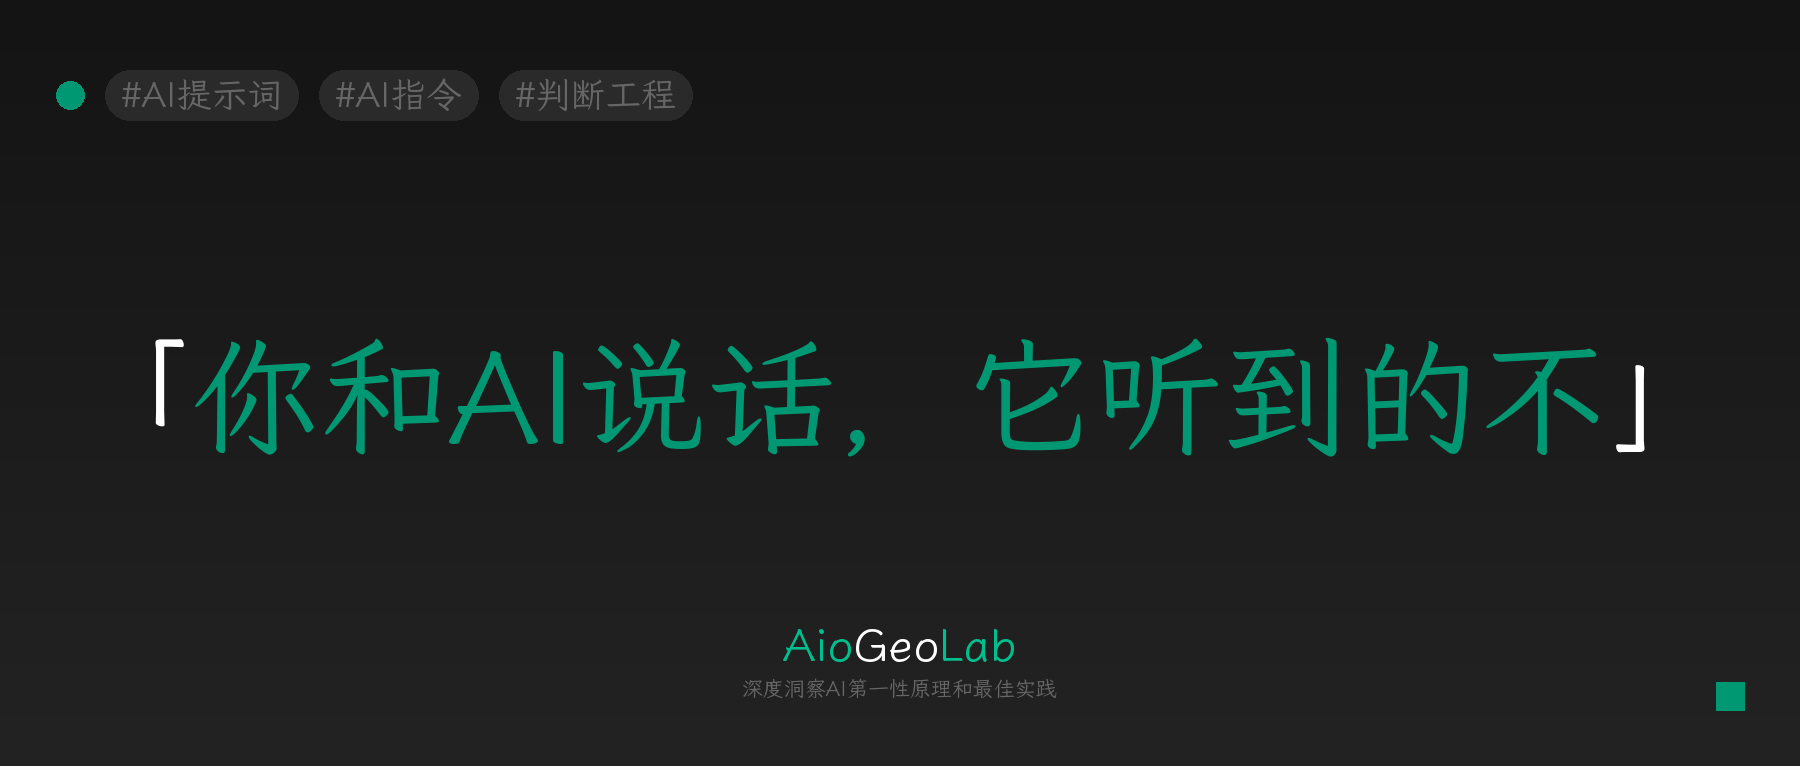
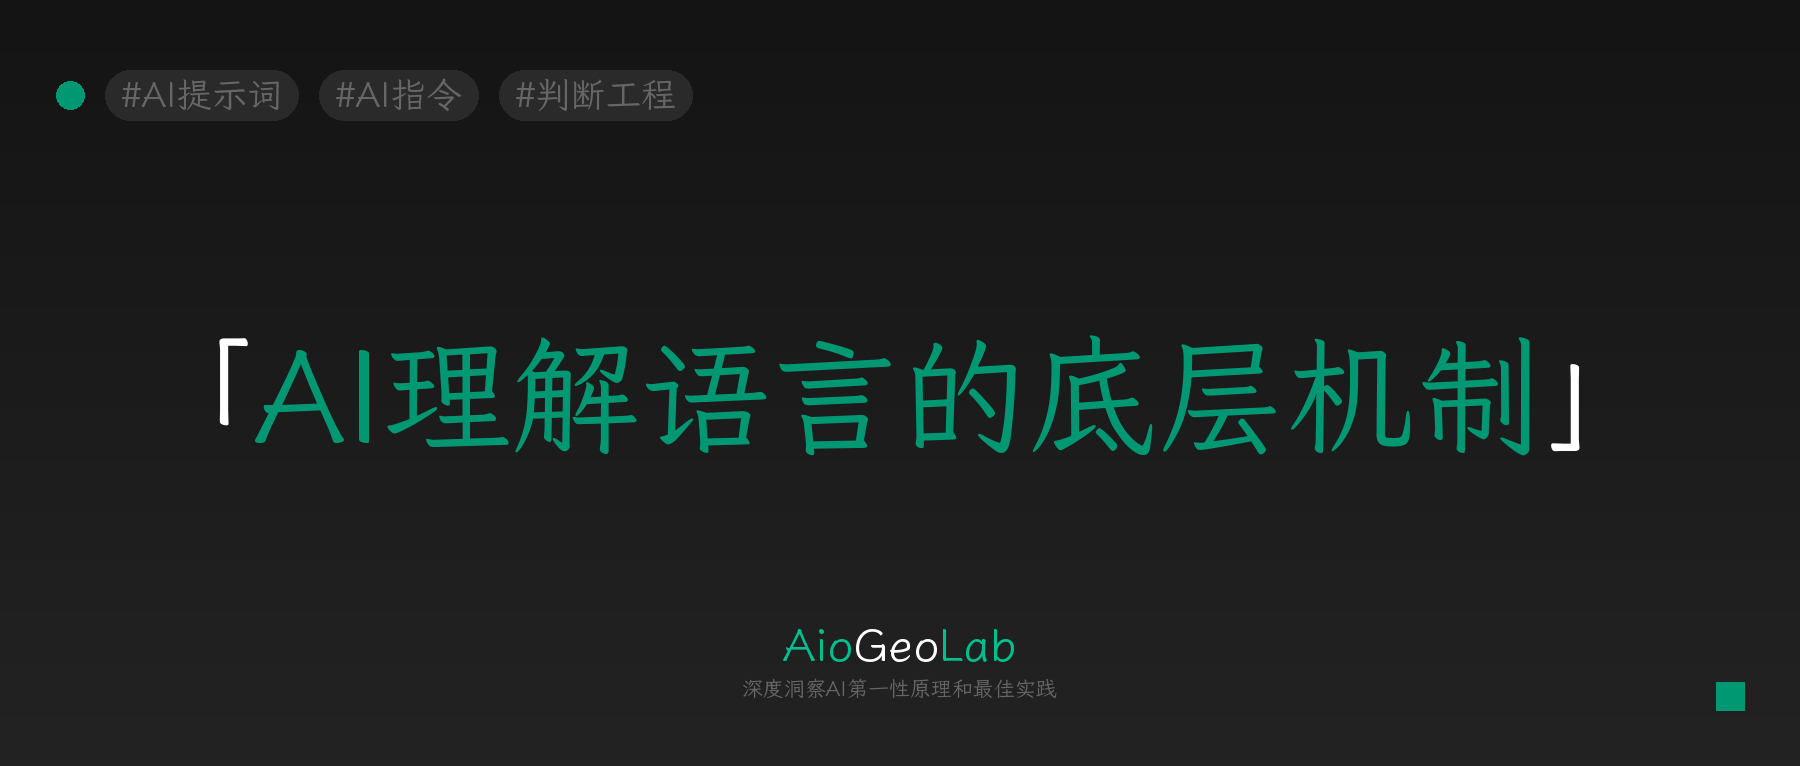
article publish

Changed region(s): [[0.0622, 0.4204, 0.9333, 0.6005]]

diff --git a/content/posts/tgje-121-reflection-loop-how-agents-check-their-own-work.md b/content/posts/tgje-121-reflection-loop-how-agents-check-their-own-work.md
@@ -1,0 +1,193 @@
+---
+title: Agent做完了，但它不知道自己做对了没有丨反馈环：执行链里那个被默认跳过的环节
+date: 2026-05-17
+draft: true
+coverKeyword: Agent"回头看"机制
+description: Agent执行完任务，不代表任务做对了——它没有内置的"回头看"机制，不会自己发现错误。本文拆解反馈环（Reflection）的底层逻辑，呈现从自检型、双Agent型到迭代循环型的三种设计形态，并以OpenClaw与Hermes的真实实现为例，说明反馈环不是固定的解，而是需要根据目标做出的设计选择。
+tldr: |-
+  Agent执行完任务就停下来，不会自己检查结果对不对——它没有预期，没有校对本能，只有线性向前的执行逻辑。"做完"和"做对"之间的那段距离，默认由人在下游承担。
+
+  反馈环（Reflection）就是在执行结构里显式设计一个"回头看"的节点。三种形态从轻到重：自检型（同一个Agent自审）、双Agent型（专门的评估Agent独立审核）、迭代循环型（不通过就修正，直到达标或触发终止条件）。
+
+  OpenClaw和Hermes给出了两种不同的答案：OpenClaw的反思是任务结束后把经验沉淀为Skill，Hermes的nudge机制在会话中实时触发自检，GEPA引擎跨任务分析失败原因并进化。一个重经验积累，一个重持续验证。
+
+  反馈环不是越复杂越好，是风险越高代价越大的任务越值得设计。把它建进执行结构，错误就在内部消化；跳过它，错误就在下游爆发。
+tags:
+  - Re
+  - 判断工程
+  - Agent
+  - 智能体
+  - 生成式引擎
+  - AI
+  - GEO
+  - AEO
+  - SEO
+  - AIO
+  - AIAgent
+  - LLM
+  - 大语言模型
+  - 优化
+  - OpenClaw
+categories: AIAgent
+author: 塔迪Tardi
+cover:
+  image: /images/cover/AioGeoLab-cover-tgje-121-reflection-loop-how-agents-check-their-own-work.png
+  alt: tgje-121-reflection-loop-how-agents-check-their-own-work
+  caption:
+schema:
+  type: BlogPosting
+  wordCount: auto
+  dateModified: auto
+ShowToc: true
+TocOpen: true
+image:
+commands: /Users/wyh/baidusync/OneAILtd/VibCX/tarditools/apublish/pub.sh tgje-121-reflection-loop-how-agents-check-their-own-work c i w b
+publish:
+  slug: tgje-121-reflection-loop-how-agents-check-their-own-work
+  status: wx_draft_created
+  paths:
+    cover_img: null
+    video: null
+    infographic: null
+  cdn:
+    infographic_url: https://p.vibcx.com/x/2026/05/1778894832-infographic-tgje-121-reflection-loop-how-agents-check-their-own-work_1280_714.jpg
+    infographic_1280: /Users/wyh/baidusync/OneAILtd/aiogeolab.com/myfiles/infographic/infographic-tgje-121-reflection-loop-how-agents-check-their-own-work_1280_714.jpg
+  wechat:
+    cover_media_id: lEmH66TSP501Rw-1R2Ao3yqaDA27mx94dkHpHM9XL2-2wgke2C7p5sDHEqV-ojTr
+    video_vid: wxv_4518145225021980687
+    video_cover_url: http://mmbiz.qpic.cn/mmbiz_jpg/nzSUaViczUNXLJZLWmdGDQ0O8lrf0RIp61er6PKkym4RBEjASvW1gmYbSARYFVTPvgDMX1H46kkTPnKokyiahInrH0ZcZAIKEicfPtgCxiaiaKic4/0?wx_fmt=jpeg
+    infographic_wx_url: http://mmbiz.qpic.cn/mmbiz_jpg/nzSUaViczUNWBuDJic6V0bMbyecYGkKhxJSF9LhLdEoMUZXMtQGHZgicKY8CVeUMd9zJ7e0ia2icktjbygYy8edLFASNoVjvTnicxtjmDwAiaQawoA/0?from=appmsg
+    draft_media_id: lEmH66TSP501Rw-1R2Ao30sCzQbXRSxvs-Ylp7xMhtmp6Oa2hKAvp5Uir9JlVMq9
+    draft_created_at: 2026-05-16 09:27
+    video_media_id: lEmH66TSP501Rw-1R2Ao3ztzvvGK_Ei1aC3L4p6KQ-5lcrEeATHsrT027jLnHHVY
+  wx_article:
+    digest: null
+    original: false
+    comment: true
+---
+# Agent做完了，但它不知道自己做对了没有丨反馈环：执行链里那个被默认跳过的环节
+<!-- infographic-start -->
+![信息图](https://p.vibcx.com/x/2026/05/1778894832-infographic-tgje-121-reflection-loop-how-agents-check-their-own-work_1280_714.jpg)
+<!-- infographic-end -->
+
+你做完一件事，会不会回头看一眼？
+
+大多数人会。不是因为有人要求，是因为人有一种内置的校对本能——结果和预期对不上，会有一种微微不对劲的感觉，驱动你再看一遍。这个机制太自然了，自然到你甚至不会注意到它的存在。
+
+Agent没有这个感觉。
+
+它做完了就做完了。执行链跑到终点，输出交付，任务关闭。没有"不对劲"，没有回头看，没有"等一下，这里好像有点问题"。除非你在结构里显式设计一个检查节点，否则这一步永远不会发生。
+
+**这不是Agent不够聪明，是执行结构里默认缺少一个环节：反馈环。**
+
+---
+<!-- audiovideo-start -->  
+> <small>NotebookLM的音视频概览，解读的比较通俗易懂，对于时间比较紧张的读者朋友，可以听听，会有启发。
+</small>
+<iframe title="AioGeoLab" src="https://open.firstory.me/embed/story/cmp7nyw2n02z001uec3yoeyv7" height="180" width="500" frameborder="0" scrolling="no"></iframe>
+<!-- audiovideo-end -->
+* * *
+
+## 为什么Agent默认不会"回头看"
+
+人的校对本能，背后是一套复杂的机制：你有对目标的记忆，有对"这件事做成什么样算对"的预期，有当结果和预期不符时产生的认知张力。这种张力驱动你停下来检查。
+
+Agent没有这套机制的任何一层。
+
+它没有独立于任务之外的"预期"，只有指令。它没有完成之后仍然运作的目标感，只有下一个Token。它的执行逻辑是前向推进的：当前步骤产出，传入下一步骤，直到链条跑完。跑完就停，不回头。
+
+这和前面讲的"沉默失败"直接相关。**沉默失败之所以沉默，正是因为Agent没有内置机制去发现自己失败了。** 它做完了，它"成功"了，然后结果是错的，没有任何报警。
+
+要改变这件事，不能靠换一个更聪明的模型。要靠在执行结构里主动设计一个"回头看"的节点——这就是反馈环（Reflection）。
+
+* * *
+
+## 反馈环是什么：给执行链装一面镜子
+
+Reflection，直译是"反思"，在Agent执行结构里的含义更具体：在执行流程中插入一个自检节点，让Agent评估自己的输出是否符合要求，发现问题则修正，然后再交付。
+
+它改变的不是Agent的能力，是执行的结构。
+
+没有反馈环的执行链是一条单向的流水线：输入→执行→输出，结束。有了反馈环，流水线多了一个弯：输入→执行→自检→（发现问题则）修正→输出。
+
+这个弯不是装饰。它的价值在于：**让错误在执行链内部被捕获，而不是流出去由人在下游发现。** 发现得越早，修正的代价越低。
+
+* * *
+
+## 三种形态：从简单到复杂
+
+反馈环没有唯一的实现方式。根据任务复杂度和成本预算，有三种主要形态。
+
+**形态一：自检型**
+
+最简单的做法：Agent完成输出之后，用一个独立的prompt让它回头评估自己的结果。"你刚才的输出有没有遗漏？有没有不符合要求的地方？如果有，修正后重新输出。"
+
+同一个Agent，做完之后换一个角色审查自己。成本最低，上手门槛最低，适合中等复杂度的任务。
+
+局限是真实的：用同一个Agent自检，容易受执行过程中形成的思路影响。它按某个逻辑做完了一件事，再用同样的思路去检查，可能仍然觉得没问题——因为它的"问题标准"已经被执行过程塑造过一遍了。
+
+**形态二：双Agent型**
+
+执行Agent负责做，评估Agent负责审。两者独立，评估Agent没有参与执行过程，视角更干净，更容易发现执行Agent的盲点。
+
+这是目前主流Agent框架处理高质量输出任务的常见做法。代价是双倍的模型调用成本，但换来的是更可靠的错误捕获。适合质量要求高、错误代价大的任务——文件的修改、外部系统的写操作、需要对外交付的内容。
+
+**形态三：迭代循环型**
+
+执行→评估→不通过则修正→再评估→再修正→直到通过或达到重试上限。
+
+这是三种形态里最强的，也是最贵的。Token消耗随迭代次数倍增。**而且必须设终止条件。** 没有终止条件的迭代循环，就是前面（执行链上的五种断裂模式）讲的失控循环——Agent卡在里面，不停重试，时间和Token持续消耗，直到超时。最大迭代次数是硬性要求，不是可选项。
+
+* * *
+
+## 两个产品，两种不同的答案
+
+OpenClaw和Hermes都把Reflection设计进了执行结构，但两者的理解完全不同。放在一起看，能清楚地说明反馈环不是一个固定的解，而是一个需要根据目标做出选择的设计决策。
+
+**OpenClaw：反思是为了下一次**
+
+OpenClaw的执行哲学是"do, learn, improve"——做、学、改进。任务完成之后，Agent进入一个反思阶段，分析这次任务的执行过程，把值得记录的经验自主生成为可复用的Skill文件，供以后的任务调取。
+
+它的反思不是为了验证当次结果的正确性，而是**为了把这次的经验沉淀成下次的能力**。重点在学习和积累，不在当次纠错。
+
+**Hermes：反思是一个持续运行的机制**
+
+Hermes的Reflection更主动，有两个层次同时运作。
+
+第一层是**会话内的定期自检**。Hermes内置一个"nudge"机制（微推机制）——在会话进行过程中，系统在设定的时间间隔主动向Agent发出一个内部提示，要求它回顾最近发生的事情，判断有没有值得写入记忆的内容，以及当前任务是否已经真正完成。这个触发不需要用户发起，Agent自己在做。触发条件具体：五次以上工具调用、从错误中恢复、用户做了纠正、走通了一个非常规流程——任意一条满足，就值得记录。
+
+第二层是**跨任务的系统级进化**。GEPA引擎（Genetic-Pareto Prompt Evolution，来自ICLR 2026 Oral论文）每15次工具调用评估一次近期表现，读取执行轨迹，分析的不只是"失败了"，而是"为什么失败"，然后提出针对性的Skills和Prompt改进方案。这是超出单次任务反思的、系统级的自我进化。
+
+两者的差异用一句话概括：**OpenClaw的反思是任务结束后的经验提炼，Hermes的反思是贯穿执行过程的实时机制。** 前者更轻，后者更持续。选哪种，取决于你更在意当次任务的验证，还是跨任务的长期积累。
+
+* * *
+
+## 什么时候值得设计反馈环
+
+反馈环不是越复杂越好。每一层自检都是真实的Token消耗，迭代循环更是成本倍增。该不该设计，设计多重，取决于任务本身的风险。
+
+**结果难以在外部即时验证**——值得设。如果输出对不对，没有明确的外部信号来告诉你，内部自检是唯一的防线。等到下游出问题再发现，成本已经不同了。
+
+**错误代价高、操作不可逆**——值得设。可逆的操作出错还能改，不可逆的操作出错就是结果。对外部系统的写操作、涉及真实资源的调用，Reflection应该是标配而不是选配。
+
+**任务步骤多、链条长**——值得设，而且要设在中间，不只在结尾。链越长，误差积累的空间越大。等到链条跑完再检查，前面十步的错误已经被后面的步骤继承和放大了。在关键节点设检查点，比在终点设一个大检查更有效。
+
+**Token和时间预算充裕**——可以设更重的形态。反馈环是用资源换可靠性，预算紧张时做好取舍，优先把资源给最高风险的节点。
+
+* * *
+
+## 写在最后
+
+Agent执行链的设计，通常花了很多力气在"怎么让它跑起来"，但"跑完之后怎么知道跑对了"这个问题，经常被默认跳过。
+
+反馈环填的就是这个空缺。它不是让Agent变聪明，是给执行链装一面镜子——让Agent在交付结果之前，有机会看一眼自己做了什么。
+
+**从"跑完交差"到"跑完验收"，中间差的那一步，就是反馈环。**
+
+这一步设计进去，错误在内部消化；没有设计，错误在下游爆发。
+
+---
+> 我是「**AioGeoLab**」主理人塔迪Tardi，AioGeoLab是深度洞察AI第一性原理和应用实践的前瞻性研究实验室，目前有两个主要研究方向： <br>
+> 「**塔迪GEO判断工程**」是基于GEO的价值SEO化，在AI从“说”到“做”的重要跃迁阶段，试图回答，如何让AI敢于行动、不因为责任问题而畏手畏脚，而做的一个前沿研究项目。<br>
+> 「**塔迪硅基禅心**」是传统东方智慧、未来AI前沿、当下应用实践，深层共鸣的探索。不是用AI解读经典，也不是用经典指导AI。 这是一场跨越2500年的对话，在算法与古老智慧之间，照见意识、智能与存在的本质。<br>  塔迪的微信 - **tardyai2025**。
+

diff --git a/content/posts/tgje-120-implicit-to-explicit-how-to-write-instructions-ai-actually-understands.md b/content/posts/tgje-120-implicit-to-explicit-how-to-write-instructions-ai-actually-understands.md
@@ -1,8 +1,8 @@
 ---
 title: 你和AI说话，它听到的不是你以为的那句话
 date: 2026-05-16
-draft: true
-coverKeyword:
+draft: false
+coverKeyword: AI理解语言的底层机制
 description: 你觉得指令写得清楚了，AI给的还是不对——问题不在表达，在于你用"和人说话"的方式和AI说话。AI没有共同语境，只有概率推算；你脑子里"不言自明"的部分，对它根本不存在。本文拆解AI理解语言的底层机制，给出四个维度的检查框架，让你写任何场景的指令都有逻辑可循。
 tldr: |-
   你和AI说话，它不是在"理解"你，是在做概率推算——从训练数据里推算你这句话后面最可能跟的内容是什么。你脑子里的默认共识、工作背景、隐性标准，它一概不知道。
@@ -47,9 +47,9 @@ publish:
   slug: tgje-120-implicit-to-explicit-how-to-write-instructions-ai-actually-understands
   status: wx_draft_created
   paths:
-    cover_img: null
-    video: null
-    infographic: null
+    cover_img:
+    video:
+    infographic:
   cdn:
     infographic_url: https://p.vibcx.com/x/2026/05/1778808549-infographic-tgje-120-implicit-to-explicit-how-to-write-instructions-ai-actually-understands_1280_714.jpg
     infographic_1280: /Users/wyh/baidusync/OneAILtd/aiogeolab.com/myfiles/infographic/infographic-tgje-120-implicit-to-explicit-how-to-write-instructions-ai-actually-understands_1280_714.jpg
@@ -62,9 +62,10 @@ publish:
     draft_created_at: 2026-05-15 09:29
     video_media_id: lEmH66TSP501Rw-1R2Ao3walh9zUW91TUtHUK9pFEgivkWgI7K8jmF8IeUs2w7FT
   wx_article:
-    digest: null
+    digest:
     original: false
     comment: true
+  blog_published_at: 2026-05-15 09:30
 ---
 # 你和AI说话，它听到的不是你以为的那句话
 <!-- infographic-start -->